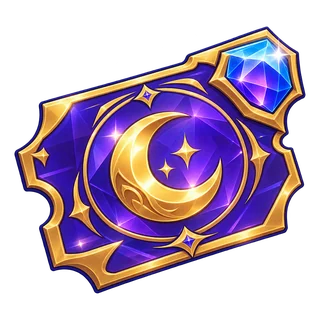
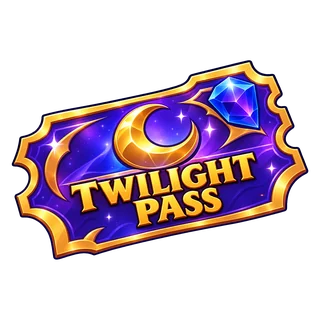
PUBG package images; new Mobile Legends pass images with labels
Claude-Session: https://claude.ai/code/session_01GGmxHti6R5JDo3Yn3HzMHB

diff --git a/index.html b/index.html
@@ -1378,8 +1378,8 @@
     </div>
     </div>
     <div class="quick-buy"><div class="qb-title">Популярные пакеты</div><div class="qb-grid">
-      <button type="button" class="qb-card hot" onclick="quickBuy('Weekly Elite Pack')"><div class="qd"><img class="qd-img" src="/img/packs/mlbb/weekly.webp" width="64" height="64" alt="" loading="lazy" decoding="async"> Weekly</div><div class="qp">102 Сом</div><div class="qb">Elite Pack −29%</div></button>
-      <button type="button" class="qb-card" onclick="quickBuy('Monthly Elite Pack')"><div class="qd"><img class="qd-img" src="/img/packs/mlbb/twilight.webp" width="64" height="64" alt="" loading="lazy" decoding="async"> Monthly</div><div class="qp">515 Сом</div><div class="qb">Elite Pack −20%</div></button>
+      <button type="button" class="qb-card hot" onclick="quickBuy('Weekly Elite Pack')"><div class="qd"><img class="qd-img" src="/img/packs/mlbb/weekly-elite.webp" width="64" height="64" alt="" loading="lazy" decoding="async"> Weekly</div><div class="qp">102 Сом</div><div class="qb">Elite Pack −29%</div></button>
+      <button type="button" class="qb-card" onclick="quickBuy('Monthly Elite Pack')"><div class="qd"><img class="qd-img" src="/img/packs/mlbb/monthly-elite.webp" width="64" height="64" alt="" loading="lazy" decoding="async"> Monthly</div><div class="qp">515 Сом</div><div class="qb">Elite Pack −20%</div></button>
       <button type="button" class="qb-card" onclick="quickBuy(1000)"><div class="qd"><img class="qd-img" src="/img/packs/mlbb/sack.webp" width="64" height="64" alt="" loading="lazy" decoding="async"> 1160</div><div class="qp">2 030 Сом</div><div class="qb">1000+160 бонус</div></button>
       <button type="button" class="qb-card" onclick="quickBuy(2015)"><div class="qd"><img class="qd-img" src="/img/packs/mlbb/sacks.webp" width="64" height="64" alt="" loading="lazy" decoding="async"> 2398</div><div class="qp">3 675 Сом</div><div class="qb">2015+383 бонус</div></button>
     </div><button type="button" class="qb-all" onclick="showPage('topup')">Все пакеты →</button></div>
@@ -1676,12 +1676,19 @@ function getPlayerValue() {
 }
 // Картинки пакетов (пока только Mobile Legends): уровень по количеству алмазов, пассы по названию
 const MLBB_TIERS = [[50,'gem1'],[120,'gem3'],[300,'gem7'],[800,'sack-spill'],[1700,'sack'],[3100,'sacks'],[6100,'chest'],[1e9,'chests']];
+const PUBG_TIERS = [[200,'uc-1'],[500,'uc-3'],[1000,'uc-stack'],[2500,'uc-crate'],[5000,'uc-crate-big'],[1e9,'uc-crates']];
 function pkgImg(p) {
-  if (currentGame !== 'mlbb' || gamesData[currentGame]) return '';
-  let f;
-  if (p.type === 'pass') f = /twilight|monthly/i.test(p.name || '') ? 'twilight' : 'weekly';
-  else { const t = p.totalDiamonds || p.diam || 0; f = (MLBB_TIERS.find(x => t < x[0]) || MLBB_TIERS[MLBB_TIERS.length - 1])[1]; }
-  return `<img class="pkg-img" src="/img/packs/mlbb/${f}.webp" width="120" height="120" alt="" loading="lazy" decoding="async">`;
+  let dir, f;
+  if (currentGame === 'mlbb') {
+    dir = 'mlbb';
+    if (p.type === 'pass') { const n = p.name || ''; f = /twilight/i.test(n) ? 'twilight' : /monthly/i.test(n) ? 'monthly-elite' : /elite/i.test(n) ? 'weekly-elite' : 'weekly'; }
+    else { const t = p.totalDiamonds || p.diam || 0; f = (MLBB_TIERS.find(x => t < x[0]) || MLBB_TIERS[MLBB_TIERS.length - 1])[1]; }
+  } else if (currentGame === 'pubg') {
+    dir = 'pubg';
+    if (p.type === 'pass') f = /prime/i.test(p.name || '') ? 'prime' : 'elite';
+    else { const t = p.totalDiamonds || p.diam || 0; f = (PUBG_TIERS.find(x => t < x[0]) || PUBG_TIERS[PUBG_TIERS.length - 1])[1]; }
+  } else return '';
+  return `<img class="pkg-img" src="/img/packs/${dir}/${f}.webp" width="120" height="120" alt="" loading="lazy" decoding="async">`;
 }
 function pkgIcon(p) {
   const gd = gamesData[currentGame];
